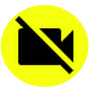
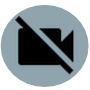
material butons, AR focus

diff --git a/views/static-multiparty.html b/views/static-multiparty.html
@@ -12,12 +12,14 @@
         <script type="text/javascript" src="bower/threejs/build/three.min.js"></script>
         <script type="text/javascript" src="bower/threejs/examples/js/controls/DeviceOrientationControls.js"></script>
         <script type="text/javascript" src="/socket.io/socket.io.js"></script>
+        <script type="text/javascript" src="javascript/material-click.js"></script>
 
         <script type="text/javascript" src="javascript/socket.js"></script>
         <script type="text/javascript" src="javascript/static-multiparty.js"></script>
 
         <link rel="stylesheet" type="text/css" href="/easyrtc/easyrtc.css" />
         <link rel="stylesheet" type="text/css" href="css/room.css" />
+        <link rel="stylesheet" type="text/css" href="css/material-click.css" />
         <link rel="stylesheet" type="text/css" href="bower/jquery-ui/themes/smoothness/jquery-ui.min.css" />
         <link rel="stylesheet" type="text/css" href="bower/sweetalert/dist/sweetalert.css" />
 
@@ -25,9 +27,8 @@
 
     </head>
     <body onload="appInit()">
-        <!--<div id="fullpage"  class="boxCommon" style="background-image:url(images/irongrip.png)"> -->
 
-        <div id="fullpage"  class="boxCommon" style="background-color: #607D8B">
+        <div id="fullpage" class="boxCommon" style="background-color: #78909C">
 
             <div id="messageFooter"> Message Panel</div>
 
@@ -79,15 +80,15 @@
         </div>
 
         <div id="main-ui-container" class="ui-zindex">
-            <img id="modmeButton" onclick ="initModme()" src="img/modme.png" height="64" width="64" style=" display:none" alt="code button" /><br>
+            <img id="modmeButton" onclick ="initModme()" class="ripple-effect" src="img/modme.png" height="64" width="64" style=" display:none" alt="code button" /><br>
             <img id="devmeButton" src="img/devme.png" height="64" width="64" style=" display:none" alt="code button" /><br>
             <img id="augmeButton" onclick="augmeUI()" src="img/augme.png" height="64" width="64" style=" display:none" alt="code button" /><br>
-            <img id="codeDialogButton" src="img/code-input.png" height="64" width="64" style=" display:none" alt="code button" /><br>
-            <img id="inviteViaEmail" src="img/email-invite.png" height="64" width="64" style=" display:none" alt="WC button" /><br>
+            <img id="codeDialogButton" class="ripple-effect" src="img/code-input.png" height="64" width="64" style=" display:none" alt="code button" /><br>
+            <img id="inviteViaEmail" src="img/email-invite.png" class="ripple-effect" height="64" width="64" style=" display:none" alt="WC button" /><br>
             <img id="textEntryButton" onclick ="showTextEntry()" src="img/textEntry.png" height="64" width="64" style="display:none" alt="text button" /><br>
            <!-- <img id="textButton"  onclick ="showTextEntry()" src="img/textEntry.png" height="60" width="60" style="z-   index:3; display:none" alt="text button"/><br> -->
-            <img id="drawButton"  onclick ="drawUI()" src="img/pencil.png" height="64" width="64" style=" display:none" alt="pencil button" /><br>
-            <img id="utilButton"  onclick="utilUI()" src="img/util.png" height="64" width="64" style=" display:none" alt="utility button" /><br>
+            <img id="drawButton"  onclick ="drawUI()" class="ripple-effect" src="img/pencil.png" height="64" width="64" style=" display:none" alt="pencil button" /><br>
+            <img id="utilButton"  onclick="utilUI()" class="ripple-effect" src="img/util.png" height="64" width="64" style=" display:none" alt="utility button" /><br>
             <img id="videoButton" class='video-swap' src="img/video-on.png" height="64" width="64" style=" display:none" alt="video button" /><br>
         </div>
 
@@ -97,13 +98,13 @@
         </div>
 
         <div id="mod-ui-container" class="ui-zindex">
-            <img id="focus-participant" class="moderator-swap" title="tooltip" src="img/focus-moderator-off.png" height="64" width="64" style="display:none" alt="mod button" /><br>
-            <img id="mod-reset" title="tooltip" src="img/mod-reset.png" height="64" width="64" style="display:none" alt="mod reset" /><br>
+            <img id="focus-participant" class="ripple-effect" title="tooltip" src="img/focus-moderator-off.png" height="64" width="64" style="display:none" alt="mod button" /><br>
+            <img id="mod-reset" title="tooltip" class="ripple-effect" src="img/mod-reset.png" height="64" width="64" style="display:none" alt="mod reset" /><br>
         </div>
 
         <div id="aug-ui-container" class="ui-zindex">
             <img id="aug2" onclick ="orientationAr()" src="img/augA1.png" height="64" width="64" style="display:none" alt="aug2" /><br>
-            <img id="shareaug" onclick ="shareAr()" src="img/focus-moderator.png" height="64" width="64" style="display:none" alt="shareaug" /><br>
+            <img id="shareaug" class="ripple-effect" onclick ="shareAr()" src="img/ar-share.png" height="64" width="64" style="display:none" alt="shareaug" /><br>
         </div>
 
         <div id="utility-ui-container" class="ui-zindex">

diff --git a/public/javascript/material-click.js b/public/javascript/material-click.js
@@ -1,0 +1,126 @@
+jQuery(document).ready(function($) {
+	/**
+	* Ripple effect mechanism
+	*/
+	$('body').on( 'click', '.ripple-effect', function(e){
+		// Ignore default behavior
+		e.preventDefault();
+
+		// Cache the selector
+		var the_dom = $(this);
+
+		// Get the limit for ripple effect
+		var limit = the_dom.attr( 'data-ripple-limit' );
+
+		// Get custom color for ripple effect
+		var color = the_dom.attr( 'data-ripple-color' );
+		if( typeof color == 'undefined' ){
+			var color = 'rgba(2, 119, 189, 0.3)';
+		}
+
+		// Get ripple radius
+		var radius = the_dom.attr( 'data-ripple-wrap-radius' );
+		if( typeof radius == 'undefined' ){
+			var radius = '50%';
+		}
+
+		// Get the clicked element and the click positions
+		if( typeof limit == 'undefined' ){
+			var the_dom_limit = the_dom;
+		} else {
+			var the_dom_limit = the_dom.closest( limit );
+		}
+
+		var the_dom_offset = the_dom_limit.offset();
+		var click_x = e.pageX;
+		var click_y = e.pageY;
+
+		// Get the width and the height of clicked element
+		var the_dom_width = the_dom_limit.outerWidth();
+		var the_dom_height = the_dom_limit.outerHeight();
+
+		// Draw the ripple effect wrap
+		var ripple_effect_wrap = $('<span class="ripple-effect-wrap"></span>');
+		ripple_effect_wrap.css({
+			'width' 			: the_dom_width,
+			'height'			: the_dom_height,
+			'position' 			: 'absolute',
+			'top'			 	: the_dom_offset.top,
+			'left'	 			: the_dom_offset.left,
+			'z-index' 			: 10000,
+			'overflow' 			: 'hidden',
+			'background-clip'	: 'padding-box',
+			'-webkit-border-radius' : radius,
+			'border-radius'		: radius
+		});
+
+		// Adding custom class, it is sometimes needed for customization
+		var ripple_effect_wrap_class = the_dom.attr( 'data-ripple-wrap-class' );
+
+		if( typeof ripple_effect_wrap_class != 'undefined' ){
+			ripple_effect_wrap.addClass( ripple_effect_wrap_class );
+		}
+
+		// Append the ripple effect wrap
+		ripple_effect_wrap.appendTo('body');
+
+		// Determine the position of the click relative to the clicked element
+		var click_x_ripple = click_x - the_dom_offset.left;
+		var click_y_ripple = click_y - the_dom_offset.top;
+		var circular_width = 1000;
+
+		// Draw the ripple effect
+		var ripple = $('<span class="ripple"></span>');
+		ripple.css({
+			'width' 						: circular_width,
+			'height'						: circular_width,
+			'background'					: color,
+			'position'						: 'absolute',
+			'top'							: click_y_ripple - ( circular_width / 2 ),
+			'left'							: click_x_ripple - ( circular_width / 2 ),
+			'content'						: '',
+		    'background-clip' 				: 'padding-box',
+		    '-webkit-border-radius'     	: '50%',
+		    'border-radius'             	: '50%',
+		    '-webkit-animation-name'		: 'ripple-animation',
+		    'animation-name'              	: 'ripple-animation',
+		    '-webkit-animation-duration'  	: '2s',
+		    'animation-duration'          	: '2s',
+		    '-webkit-animation-fill-mode' 	: 'both',
+		    'animation-fill-mode'         	: 'both'
+		});
+		$('.ripple-effect-wrap:last').append( ripple );
+
+		// Remove rippling component after half second
+		setTimeout( function(){
+			ripple_effect_wrap.fadeOut(function(){
+				$(this).remove();
+			});
+		}, 500 );
+
+		// Get the href
+		// Check target state and set default
+		var href = the_dom.attr('href');
+        var target = the_dom.attr('target');
+        if(!target) { target = '_self'; }
+		// Safari appears to ignore all the effect if the clicked link is not prevented using preventDefault()
+		// To overcome this, preventDefault any clicked link
+		// If this isn't hash, redirect to the given link
+		if( typeof href != 'undefined' && href.substring(0, 1) != '#' ){
+			setTimeout( function(){
+				window.open(href,target);
+			}, 200 );
+		}
+
+		// Ugly manual hack to fix input issue
+		if( the_dom.is('input') || the_dom.is('button') ){
+			setTimeout( function(){
+				the_dom.removeClass('ripple-effect');
+				the_dom.trigger('click');
+				the_dom.addClass('ripple-effect');
+			}, 200 );
+		}
+
+	});
+
+});

diff --git a/public/javascript/ui-manager.js b/public/javascript/ui-manager.js
@@ -126,14 +126,14 @@ function shareAr() {
   var sessionId = socketServer.sessionid;
       socketServer.emit( 'focus', userContext.rtcId, sessionId );
 
+// Tell everyone to initialize AR
 
-//  -  tell everyone to inialize the AR stuff
+var sessionId = socketServer.sessionid;
+      socketServer.emit( 'utility', 'arClientInit', sessionId );
 
-//  focusUser( userContext.rtcId );
-//  emitUtility( arClientInit );
+  var msgString = 'User ' + userContext.rtcId + ' has become the focus in AR mode'
+  messageBar( msgString );
 
-  coreAr();
-  messageBar( 'A users has become the focus in AR mode' );
 }
 
 //

diff --git a/public/css/material-click.css b/public/css/material-click.css
@@ -1,0 +1,23 @@
+@-webkit-keyframes ripple-animation {
+  0% {
+    -webkit-transform: scale(.01);
+            transform: scale(.01);
+  }
+
+  100% {
+    -webkit-transform: scale(5);
+            transform: scale(5);
+  }    
+}
+
+@keyframes ripple-animation {
+  0% {
+    -webkit-transform: scale(.01);
+            transform: scale(.01);
+  }
+
+  100% {
+    -webkit-transform: scale(5);
+            transform: scale(5);
+  }     
+}

diff --git a/public/javascript/util.js b/public/javascript/util.js
@@ -90,7 +90,9 @@ socketServer.on('utility', function(data) {
       clearDrawCanvas();
       break;
     case "arClientInit":
+    console.log('at utility socket recieve:', data);
       if (userContext.participantState === 'peer') {
+        orientationAr();
         coreAr();
       }
       break;
